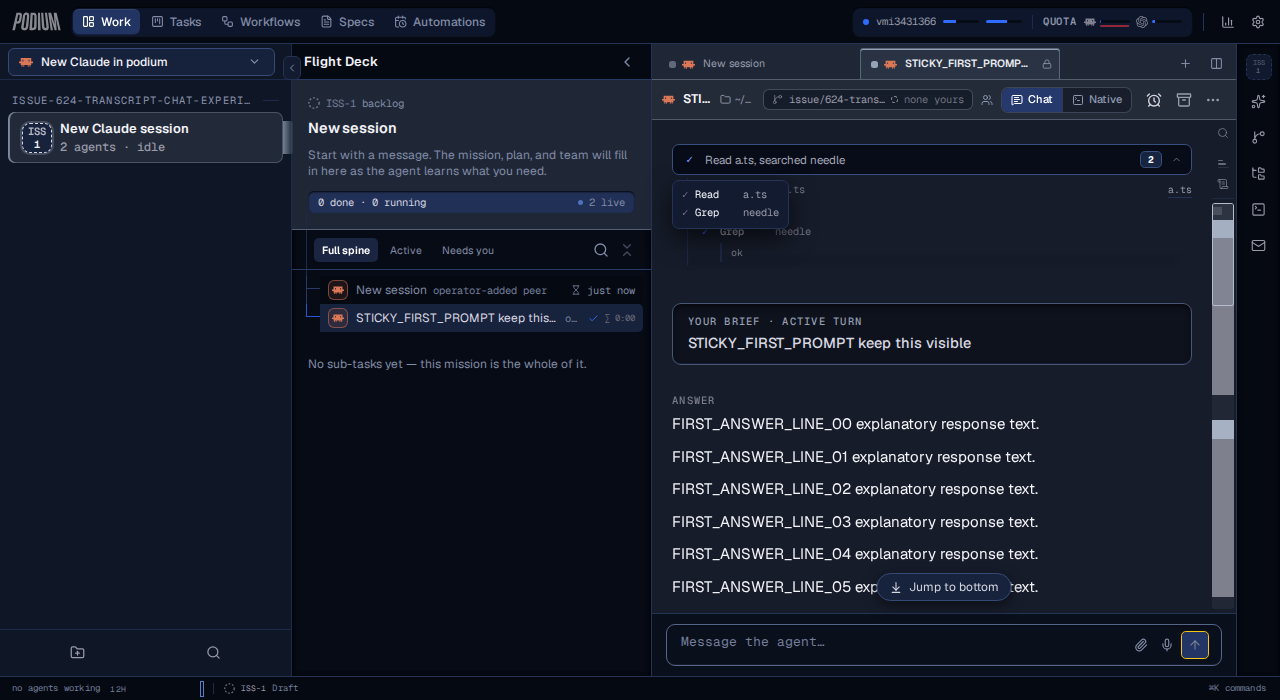
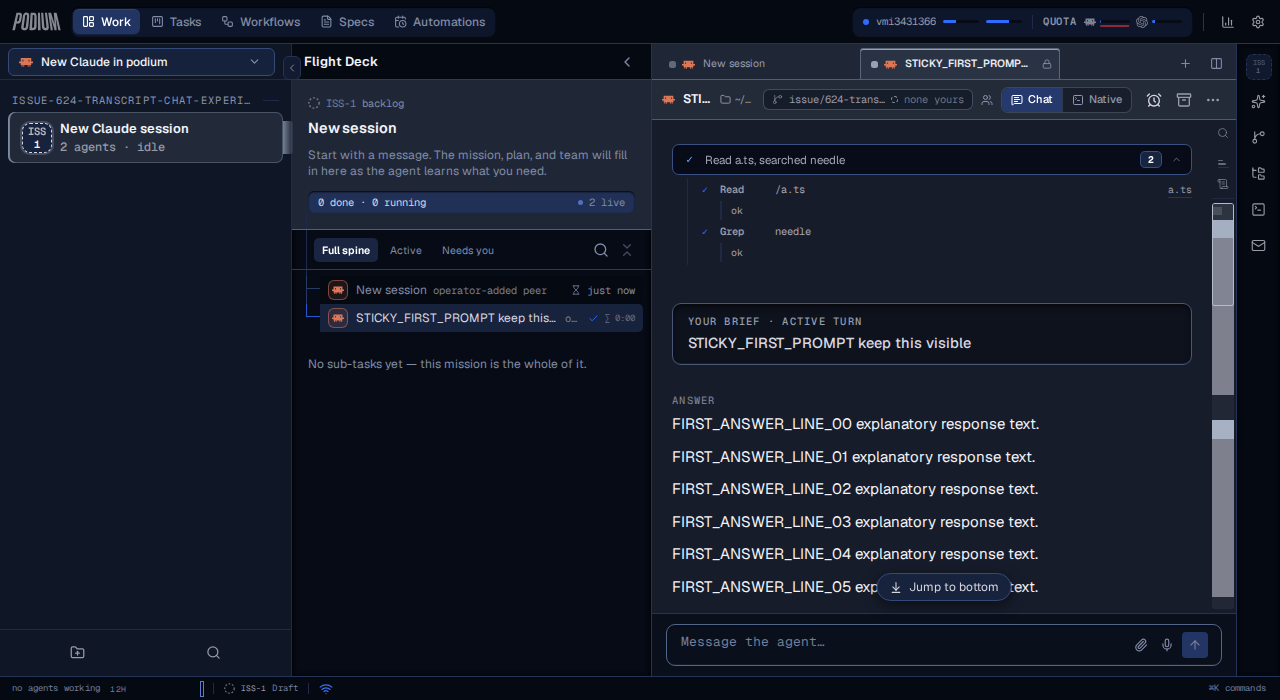
fix(web): refine transcript signal states
Podium-Issue: POD-624

diff --git a/tests/e2e/browser/chat-slice-consumers.browser.e2e.ts b/tests/e2e/browser/chat-slice-consumers.browser.e2e.ts
@@ -230,6 +230,14 @@ test('send, search, minimap, voice and image-paste on the ported chat surface', 
     .locator('textarea[placeholder="Message the agent…"]')
     .locator('visible=true')
   await expect(composer).toBeVisible()
+  const send = page.getByTitle('Send (Enter)').locator('visible=true')
+  await expect(send).toBeDisabled()
+  await expect(send).not.toHaveClass(/btn-primary-rim/)
+  await mkdir(EVIDENCE_DIR, { recursive: true })
+  await page.screenshot({
+    path: join(EVIDENCE_DIR, 'transcript-chat-composer-empty.png'),
+    fullPage: false,
+  })
 
   // A real hover + click proves the message action crosses the feed/composer
   // boundary without shifting the row or replacing an existing draft.
@@ -270,8 +278,22 @@ test('send, search, minimap, voice and image-paste on the ported chat surface', 
   const marker = `SLICE_SEND_MARKER_${Date.now()}`
   await composer.fill(marker)
   await expect(composer).toHaveValue(marker)
+  await expect(send).toBeEnabled()
+  await expect(send).toHaveClass(/btn-primary-rim/)
+  await page.screenshot({
+    path: join(EVIDENCE_DIR, 'transcript-chat-composer-armed.png'),
+    fullPage: false,
+  })
   await composer.press('Enter')
   await expect(composer).toHaveValue('')
+  const justSentTail = page.getByTestId('feed-tail').locator('visible=true')
+  await expect(justSentTail).toContainText('Sending')
+  await expect(justSentTail.locator('figure')).toHaveCount(0)
+  await expect(justSentTail.locator('.spb')).toHaveCount(0)
+  await page.screenshot({
+    path: join(EVIDENCE_DIR, 'transcript-chat-just-sent.png'),
+    fullPage: false,
+  })
   const sentRow = page.locator('.transcript-row').filter({ hasText: marker })
   await expect(sentRow).toHaveCount(1, { timeout: 30_000 })
   await expect(sentRow).toContainText('You')
@@ -323,7 +345,6 @@ test('send, search, minimap, voice and image-paste on the ported chat surface', 
   await composer.fill(
     'Review the attached image and keep this composer stable.\nThen summarize it.',
   )
-  await mkdir(EVIDENCE_DIR, { recursive: true })
   await page.screenshot({
     path: join(EVIDENCE_DIR, 'transcript-chat-composer.png'),
     fullPage: false,

diff --git a/apps/web/src/styles.css b/apps/web/src/styles.css
@@ -2458,7 +2458,10 @@ html[data-density="balanced"] .header-quota-pools {
 
 /* A shell command reads as the code it is, not as prose about it (POD-376). */
 .tool-cmd {
-  color: color-mix(in oklab, var(--foreground) 78%, transparent);
+  color: color-mix(in oklab, var(--foreground) 88%, transparent);
+}
+.tool-subject {
+  color: color-mix(in oklab, var(--foreground) 76%, transparent);
 }
 
 /* The agent's description of a command, demoted beneath the command itself. */
@@ -2482,7 +2485,7 @@ html[data-density="balanced"] .header-quota-pools {
   border-left: 2px solid color-mix(in oklab, var(--border) 60%, transparent);
   font-family: var(--font-mono, ui-monospace, monospace);
   font-size: 10px;
-  color: color-mix(in oklab, var(--muted-foreground) 78%, transparent);
+  color: color-mix(in oklab, var(--foreground) 72%, transparent);
   min-width: 0;
 }
 .tool-out-line {
@@ -2909,7 +2912,7 @@ html[data-density="balanced"] .header-quota-pools {
   color: var(--destructive);
 }
 .transcript-pending {
-  transition: opacity 180ms ease;
+  transition: none;
 }
 .transcript-pending--failed {
   opacity: 0.72;
@@ -5135,8 +5138,12 @@ a.ref-link--session::before {
   flex: none;
   color: var(--text-dim, var(--muted-foreground));
 }
-.attachment-chip-spinner {
-  color: var(--live, var(--info));
+.attachment-chip-state {
+  flex: none;
+  color: var(--text-dim, var(--muted-foreground));
+  font-family: var(--font-mono, ui-monospace, monospace);
+  font-size: 9px;
+  letter-spacing: 0.02em;
 }
 .attachment-chip-remove {
   margin-left: 2px;
@@ -5148,6 +5155,9 @@ a.ref-link--session::before {
 }
 
 @media (prefers-reduced-motion: no-preference) {
+  .transcript-pending {
+    transition: opacity 180ms ease;
+  }
   .composer-notice,
   .attachment-chip {
     animation: composer-row-arrive 180ms cubic-bezier(0.22, 1, 0.36, 1);

diff --git a/apps/web/src/features/chat/ChatComposer.test.tsx b/apps/web/src/features/chat/ChatComposer.test.tsx
@@ -171,10 +171,13 @@ describe('ChatComposer, non-compact (the main chat)', () => {
   it('keeps empty send neutral and turns it yellow only when actionable', async () => {
     await mount({ compact: false, draft: '' })
     expect(sendButton().disabled).toBe(true)
-    expect(sendButton().className).toContain('disabled:bg-secondary')
+    expect(sendButton().className).toContain('bg-secondary')
+    expect(sendButton().className).not.toContain('btn-primary-rim')
+    expect(sendButton().className).not.toContain('bg-primary')
     expect(sendButton().className).toContain('size-7')
     await mount({ compact: false, draft: 'ship it' })
     expect(sendButton().disabled).toBe(false)
+    expect(sendButton().className).toContain('btn-primary-rim')
     expect(sendButton().className).toContain('bg-primary')
   })
 
@@ -188,6 +191,13 @@ describe('ChatComposer, non-compact (the main chat)', () => {
           size: 14 * 1024,
           previewUrl: 'blob:frame',
           state: 'ready' as const,
+        },
+        {
+          id: 'a2',
+          name: 'uploading.png',
+          size: 2 * 1024,
+          previewUrl: 'blob:uploading',
+          state: 'uploading' as const,
         },
       ],
     }
@@ -205,6 +215,10 @@ describe('ChatComposer, non-compact (the main chat)', () => {
     expect(well().querySelector('[data-testid="attachment-strip"]')?.textContent).toContain(
       'frame.png· 14 KB',
     )
+    expect(well().querySelector('[data-testid="attachment-strip"]')?.textContent).toContain(
+      'uploading.png· 2 KBUploading',
+    )
+    expect(well().querySelector('[data-testid="attachment-strip"] .spb')).toBeNull()
   })
 })
 

diff --git a/apps/web/src/features/chat/ChatComposer.tsx b/apps/web/src/features/chat/ChatComposer.tsx
@@ -427,7 +427,10 @@ export function ChatComposer({
               <Button
                 type="button"
                 size="icon"
-                variant={compact ? 'ghost' : 'default'}
+                // The primary variant owns Superade's yellow silhouette. Keep
+                // the whole empty affordance neutral, including that inherited
+                // rim, and only opt into primary once the action is armed.
+                variant={compact || sendDisabled ? 'ghost' : 'default'}
                 className={cn(
                   compact
                     ? cn(
@@ -436,7 +439,12 @@ export function ChatComposer({
                           ? 'bg-transparent text-text-dim hover:bg-transparent hover:text-text-dim disabled:bg-transparent disabled:text-text-dim disabled:opacity-100'
                           : 'bg-primary text-primary-foreground hover:bg-primary/80',
                       )
-                    : "size-7 rounded-md bg-primary text-primary-foreground hover:bg-primary/80 disabled:bg-secondary disabled:text-muted-foreground/70 disabled:opacity-100 [&_svg:not([class*='size-'])]:size-3.5",
+                    : cn(
+                        "size-7 rounded-md [&_svg:not([class*='size-'])]:size-3.5",
+                        sendDisabled
+                          ? 'bg-secondary text-muted-foreground/70 hover:bg-secondary hover:text-muted-foreground/70 disabled:opacity-100'
+                          : 'bg-primary text-primary-foreground hover:bg-primary/80',
+                      ),
                 )}
                 disabled={sendDisabled}
                 title="Send (Enter)"

diff --git a/apps/web/src/features/chat/TranscriptTail.tsx b/apps/web/src/features/chat/TranscriptTail.tsx
@@ -54,6 +54,8 @@ export interface TranscriptTailState {
   mode: TailMode
   label: string
   detail?: string
+  /** Transport receipts deliberately carry no elapsed figure. */
+  timerless?: boolean
   /** The dependency started at the tool call, not necessarily at the parent
    *  session's broader working phase. */
   since?: string
@@ -95,6 +97,12 @@ export function transcriptTailState(
   since?: string | undefined,
 ): TranscriptTailState | null {
   const fallbackSince = session?.agentState?.since ?? since
+  // The optimistic YOU row already records delivery. If a tail is visible
+  // during the hand-off, keep it still and timerless: the session's previous
+  // phase timestamp may be hours old and transport is not agent computation.
+  if (activity?.transient === 'just-sent') {
+    return { mode: 'note', label: activity.label, timerless: true }
+  }
   if (activity?.tone === 'working' && lastRow?.kind === 'tools') {
     const last = lastRow.blocks[lastRow.blocks.length - 1]
     if (last) {
@@ -176,7 +184,7 @@ export function TranscriptTail({
   lastRow?: ChatRow | undefined
 }): JSX.Element | null {
   const state = transcriptTailState(activity, session, lastRow, since)
-  const stateSince = state?.since ?? since
+  const stateSince = state?.timerless ? undefined : (state?.since ?? since)
   const startedAt = stateSince ? Date.parse(stateSince) : Number.NaN
   const known = !Number.isNaN(startedAt)
   const working = state?.mode === 'working'

diff --git a/packages/client-core/src/viewmodels/session-status.ts b/packages/client-core/src/viewmodels/session-status.ts
@@ -146,13 +146,16 @@ export function agentBadge(meta: SessionMeta, issue?: IssueWire): AgentBadge | n
 export interface ChatActivity {
   label: string
   tone: AgentBadge['tone']
+  /** Optimistic transport state before the runtime reports real computation. */
+  transient?: 'just-sent'
 }
 
 /**
  * The activity row shown pinned to the bottom of the chat view, or null for
  * nothing. Reuses `agentBadge` for instrumented agents; falls back to the PTY
- * `busy` signal for uninstrumented kinds; and shows an optimistic "Sending…"
- * immediately after a submit (`justSent`) before the first `working` event lands.
+ * `busy` signal for uninstrumented kinds; and shows an optimistic, still
+ * "Sending" state immediately after a submit (`justSent`) before the first
+ * `working` event lands.
  *
  * A parked process (hibernated/exited) cannot be working, however fresh the
  * preserved `working` phase — the header already says so, and the activity row
@@ -179,7 +182,7 @@ export function chatActivity(
     return { label: badge.label, tone: 'idle' }
   }
   if (!meta.agentState && meta.busy && !parked) return { label: 'Working…', tone: 'working' }
-  if (justSent) return { label: 'Sending…', tone: 'working' }
+  if (justSent) return { label: 'Sending', tone: 'idle', transient: 'just-sent' }
   return null
 }
 

diff --git a/apps/web/src/features/chat/ToolBatchView.test.tsx b/apps/web/src/features/chat/ToolBatchView.test.tsx
@@ -137,7 +137,13 @@ describe('ToolBatchView — the work line', () => {
   })
 
   it('unfolds and refolds the individual calls on the same click target', () => {
-    mount(batchOf([call({ id: 'a' }), call({ id: 'b', toolName: 'Bash', toolInput: 'ls -la' })]))
+    mount(
+      batchOf([
+        call({ id: 'a', toolTitle: 'a.ts', toolUseId: 'u1' }),
+        call({ id: 'a-result', toolUseId: 'u1', toolResult: 'ok' }),
+        call({ id: 'b', toolName: 'Bash', toolInput: 'ls -la' }),
+      ]),
+    )
     const line = host.querySelector('[data-testid="work-line"]')!
     expect(line.querySelector('.work-line-list')).toBeNull()
     act(() => {
@@ -145,6 +151,8 @@ describe('ToolBatchView — the work line', () => {
     })
     expect(line.getAttribute('data-open')).toBe('true')
     expect(line.querySelectorAll('.work-line-list .tool-row')).toHaveLength(2)
+    expect(line.querySelector('.tool-subject')?.textContent).toBe('a.ts')
+    expect(line.querySelector('.tool-out-line')?.textContent).toBe('ok')
     act(() => {
       line.querySelector<HTMLButtonElement>('.work-line-row')!.click()
     })

diff --git a/apps/web/src/features/chat/TranscriptTail.test.tsx b/apps/web/src/features/chat/TranscriptTail.test.tsx
@@ -69,6 +69,23 @@ describe('TranscriptTail', () => {
     expect(host.querySelector('.spb')).not.toBeNull()
   })
 
+  it('keeps just-sent transport still and timerless even with an old session clock', () => {
+    mount(
+      { label: 'Sending', tone: 'idle', transient: 'just-sent' },
+      '2024-01-01T00:00:00.000Z',
+      session({
+        phase: 'idle',
+        since: '2024-01-01T00:00:00.000Z',
+        nativeSubagentCount: 0,
+      }),
+    )
+    expect(tail()?.dataset.tail).toBe('note')
+    expect(host.textContent).toContain('Sending')
+    expect(host.querySelector('.feed-tail-figure')).toBeNull()
+    expect(host.querySelector('.spb')).toBeNull()
+    expect(tail()?.getAttribute('aria-live')).toBeNull()
+  })
+
   it('addresses the reader when the agent is waiting on them, and stays still', () => {
     mount({ label: 'needs answer', tone: 'attention' }, ago(130_000))
     expect(tail()?.dataset.tail).toBe('waiting')

diff --git a/apps/web/src/features/chat/AskUserQuestionCard.test.tsx b/apps/web/src/features/chat/AskUserQuestionCard.test.tsx
@@ -85,6 +85,27 @@ describe('AskUserQuestionCard', () => {
     expect(onAnswer).toHaveBeenCalledWith({ choices: [{ optionIndices: [2] }] })
   })
 
+  it('names network submission without borrowing the computing spinner', async () => {
+    const onAnswer = vi.fn(() => new Promise<void>(() => {}))
+    act(() =>
+      root.render(
+        <AskUserQuestionCard
+          block={ask([{ question: 'Ship?', options: [{ label: 'Yes' }, { label: 'No' }] }])}
+          cls=""
+          index={0}
+          livePending
+          onAnswer={onAnswer}
+        />,
+      ),
+    )
+    await act(async () => {
+      options()[0]?.click()
+      await Promise.resolve()
+    })
+    expect(container.textContent).toContain('sending')
+    expect(container.querySelector('.spb')).toBeNull()
+  })
+
   it('opens one question at a time and steps to the next unanswered one', async () => {
     const onAnswer = vi.fn(async () => {})
     act(() =>

diff --git a/packages/client-core/src/viewmodels/slices/chat.test.ts b/packages/client-core/src/viewmodels/slices/chat.test.ts
@@ -356,7 +356,7 @@ describe('composer, queue, offer and activity', () => {
     ).toEqual({ label: 'Working…', tone: 'working' })
     expect(
       chatActivityState({ session: session(), headless: true, turnRunning: false, justSent: true }),
-    ).toEqual({ label: 'Sending…', tone: 'working' })
+    ).toEqual({ label: 'Sending', tone: 'idle', transient: 'just-sent' })
     expect(
       chatActivityState({
         session: session(),
@@ -372,7 +372,7 @@ describe('composer, queue, offer and activity', () => {
         turnRunning: false,
         justSent: true,
       }),
-    ).toEqual({ label: 'Sending…', tone: 'working' })
+    ).toEqual({ label: 'Sending', tone: 'idle', transient: 'just-sent' })
 
     expect(
       chatActivityState({

diff --git a/tests/e2e/browser/transcript-loading.browser.e2e.ts b/tests/e2e/browser/transcript-loading.browser.e2e.ts
@@ -332,6 +332,14 @@ DELIVERED_AGENT_MAIL must not replace the operator prompt
   await expect(chatMode).toBeVisible({ timeout: 15_000 })
   await chatMode.click()
 
+  // A dev-build update notice can arrive independently of this transcript.
+  // Dismiss it before review capture so it neither obscures the expanded tool
+  // detail nor intercepts the disclosure controls this case owns.
+  const updateDialog = page.getByRole('dialog', { name: 'Podium update' })
+  if (await updateDialog.isVisible().catch(() => false)) {
+    await updateDialog.getByRole('button', { name: 'Later' }).click()
+  }
+
   const scroller = page
     .locator('div.overflow-y-auto')
     .filter({ has: page.locator('.transcript-row') })

diff --git a/apps/web/test/derive.test.ts b/apps/web/test/derive.test.ts
@@ -572,13 +572,13 @@ describe('chatActivity', () => {
       tone: 'working',
     })
   })
-  it('shows Sending… optimistically right after submit, before any signal', () => {
+  it('shows a still Sending receipt right after submit, before any signal', () => {
     expect(
       chatActivity(
         base({ agentState: { phase: 'idle', since: '', nativeSubagentCount: 0 } }),
         true,
       ),
-    ).toEqual({ label: 'Sending…', tone: 'working' })
+    ).toEqual({ label: 'Sending', tone: 'idle', transient: 'just-sent' })
   })
   it('never shows Working… for a parked session with a preserved working phase (#161)', () => {
     for (const status of ['hibernated', 'exited'] as const) {
